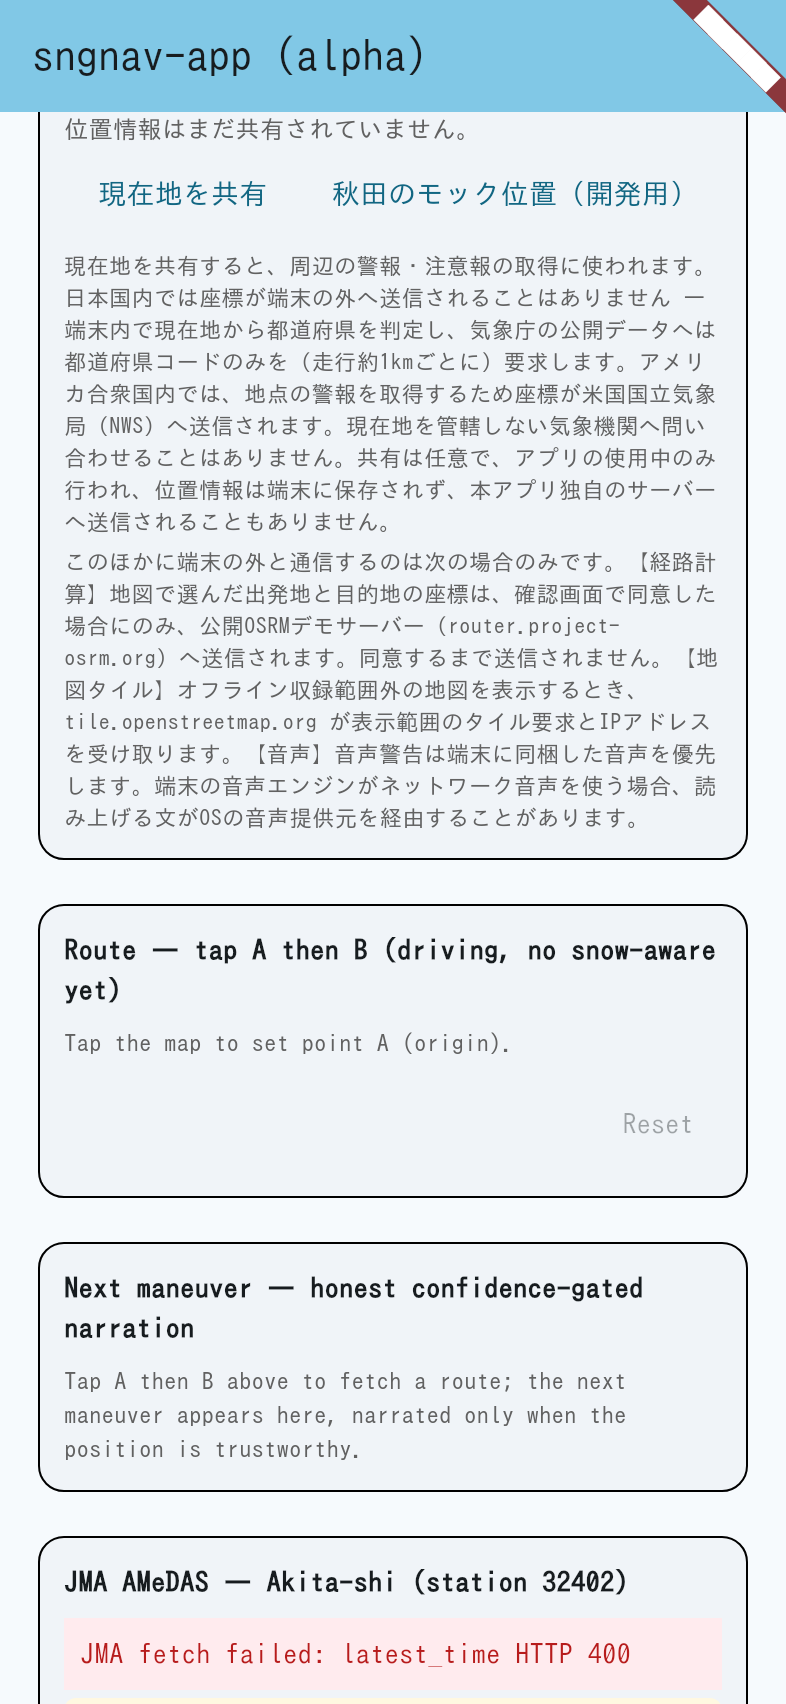
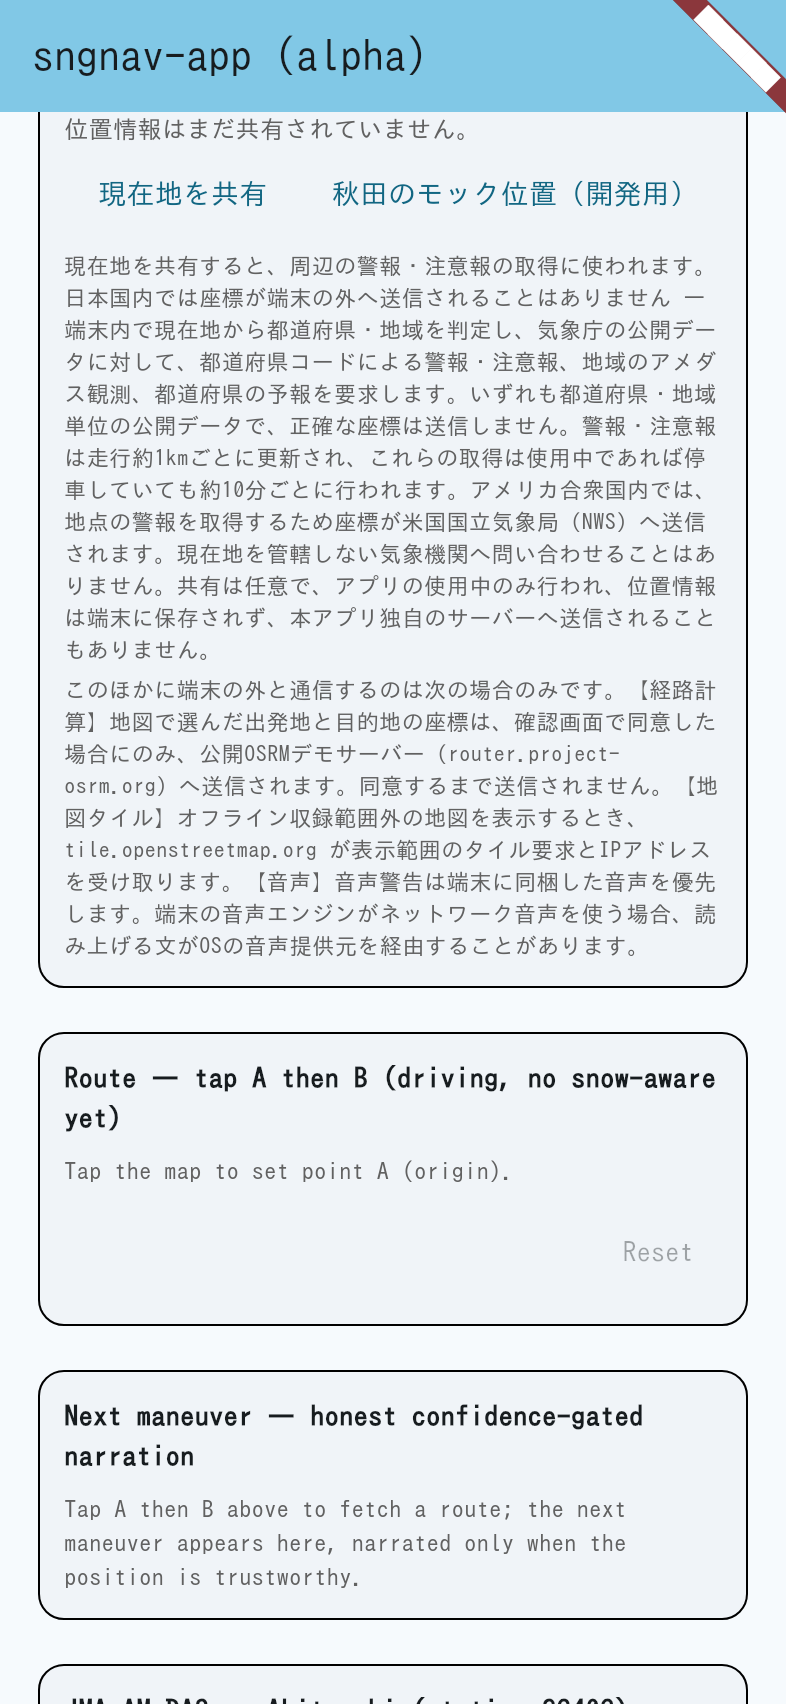
test: green the suite honestly — drive selector to ice; re-baseline w2 goldens
The honest default is RoadSurfaceCondition.unknown (info-class, announces on
neither channel — the fabricated-clear-3 guard). Two announce tests still
assumed the default was ice; they were stale, not broken code.

- announce_button_widget_test: now asserts the unknown default is SILENT
  (anti-fabrication), THEN drives the 'Mocked road condition' selector to ice
  and asserts speak(JA ice, ja-JP) + critical haptic. Preserves the end-to-end
  hazard coverage instead of asserting the no-op.
- consent_localization_test (WS5): drives the selector to ice so the JA
  critical 'fires' helper renders, then verifies it is Japanese, no EN leak.

- w2_fixes_capture goldens re-baselined (--update-goldens): the 22% drift is
  the legitimate 72f3303 JMA-disclosure copy expansion (warning file + AMeDAS
  + forecast, re-requested ~10min). All three current renders were render-SEEN
  (en/ja consent card + threshold preview) and confirmed correct, reflowing,
  no CJK tofu — before re-baselining (OPS-066).

Verified: flutter test → 512 pass / 0 fail (was 507/5); no regressions.

diff --git a/test/actuators/announce_button_widget_test.dart b/test/actuators/announce_button_widget_test.dart
@@ -34,11 +34,11 @@ JmaObservation _clearObs() => JmaObservation(
 
 void main() {
   testWidgets(
-    'tapping Announce (default ageingRural + ice) => speak(JA ice text, '
-    'ja-JP) + critical haptic',
+    'selecting ice then tapping Announce => speak(JA ice text, ja-JP) + '
+    'critical haptic (honest unknown default announces nothing)',
     (tester) async {
       final fake = FakeAlertActuators();
-      // The guidance the default (ageingRural, ice) surface should speak.
+      // The guidance the ice surface should speak.
       final expected = AlertExplainer.forConditionAndProfile(
         RoadSurfaceCondition.ice,
         DriverProfile.ageingRural,
@@ -55,6 +55,31 @@ void main() {
 
       final button = find.byKey(const Key('announce-alert-button'));
       expect(button, findsOneWidget);
+
+      // ANTI-FABRICATION: the surface starts at the honest `unknown` default
+      // (info-class -> severityForCondition = info -> announced on NEITHER
+      // channel), so tapping Announce before a hazard is selected must stay
+      // SILENT. This is the fabricated-clear-3 regression guard: the app must
+      // not speak a hazard it has not measured.
+      await tester.ensureVisible(button);
+      await tester.pump();
+      await tester.tap(button);
+      await tester.pump();
+      await tester.pump();
+      expect(fake.spoken, isEmpty,
+          reason: 'unknown default is info-class and must announce nothing');
+      expect(fake.haptics, isEmpty);
+
+      // Drive the "Mocked road condition" selector to ice — the real hazard
+      // the announce path exists for — then Announce must reach BOTH channels.
+      final condDropdown = find.byType(DropdownButton<RoadSurfaceCondition>);
+      await tester.ensureVisible(condDropdown);
+      await tester.pumpAndSettle();
+      await tester.tap(condDropdown);
+      await tester.pumpAndSettle();
+      await tester.tap(find.text('ice').last);
+      await tester.pumpAndSettle();
+
       await tester.ensureVisible(button);
       await tester.pump();
       await tester.tap(button);

diff --git a/test/l10n/consent_localization_test.dart b/test/l10n/consent_localization_test.dart
@@ -15,6 +15,7 @@ import 'package:flutter_localizations/flutter_localizations.dart';
 import 'package:flutter_test/flutter_test.dart';
 
 import 'package:condition_aggregator/condition_aggregator.dart';
+import 'package:navigation_safety_core/navigation_safety_core.dart';
 import 'package:sngnav_app/l10n/app_localizations.dart';
 import 'package:sngnav_app/main.dart';
 import 'package:sngnav_app/widgets/advisory_cards.dart';
@@ -334,7 +335,18 @@ void main() {
       // ...and the English label is gone from the surface.
       expect(find.text('Announce to driver (audio + haptic)'), findsNothing);
 
-      // Default condition is ice => critical => the "fires" helper, in JA.
+      // The honest default is `unknown` (info-class); drive the "Mocked road
+      // condition" selector to ice so the CRITICAL "fires" helper renders,
+      // then verify that helper is in JA (not the info-class no-fire helper).
+      final condDropdown = find.byType(DropdownButton<RoadSurfaceCondition>);
+      await tester.ensureVisible(condDropdown);
+      await tester.pumpAndSettle();
+      await tester.tap(condDropdown);
+      await tester.pumpAndSettle();
+      await tester.tap(find.text('ice').last);
+      await tester.pumpAndSettle();
+
+      // ice => critical => the "fires" helper, in JA.
       expect(find.text(jaL10n.announceFiresHelper('critical')), findsOneWidget);
       // No English helper leak.
       expect(